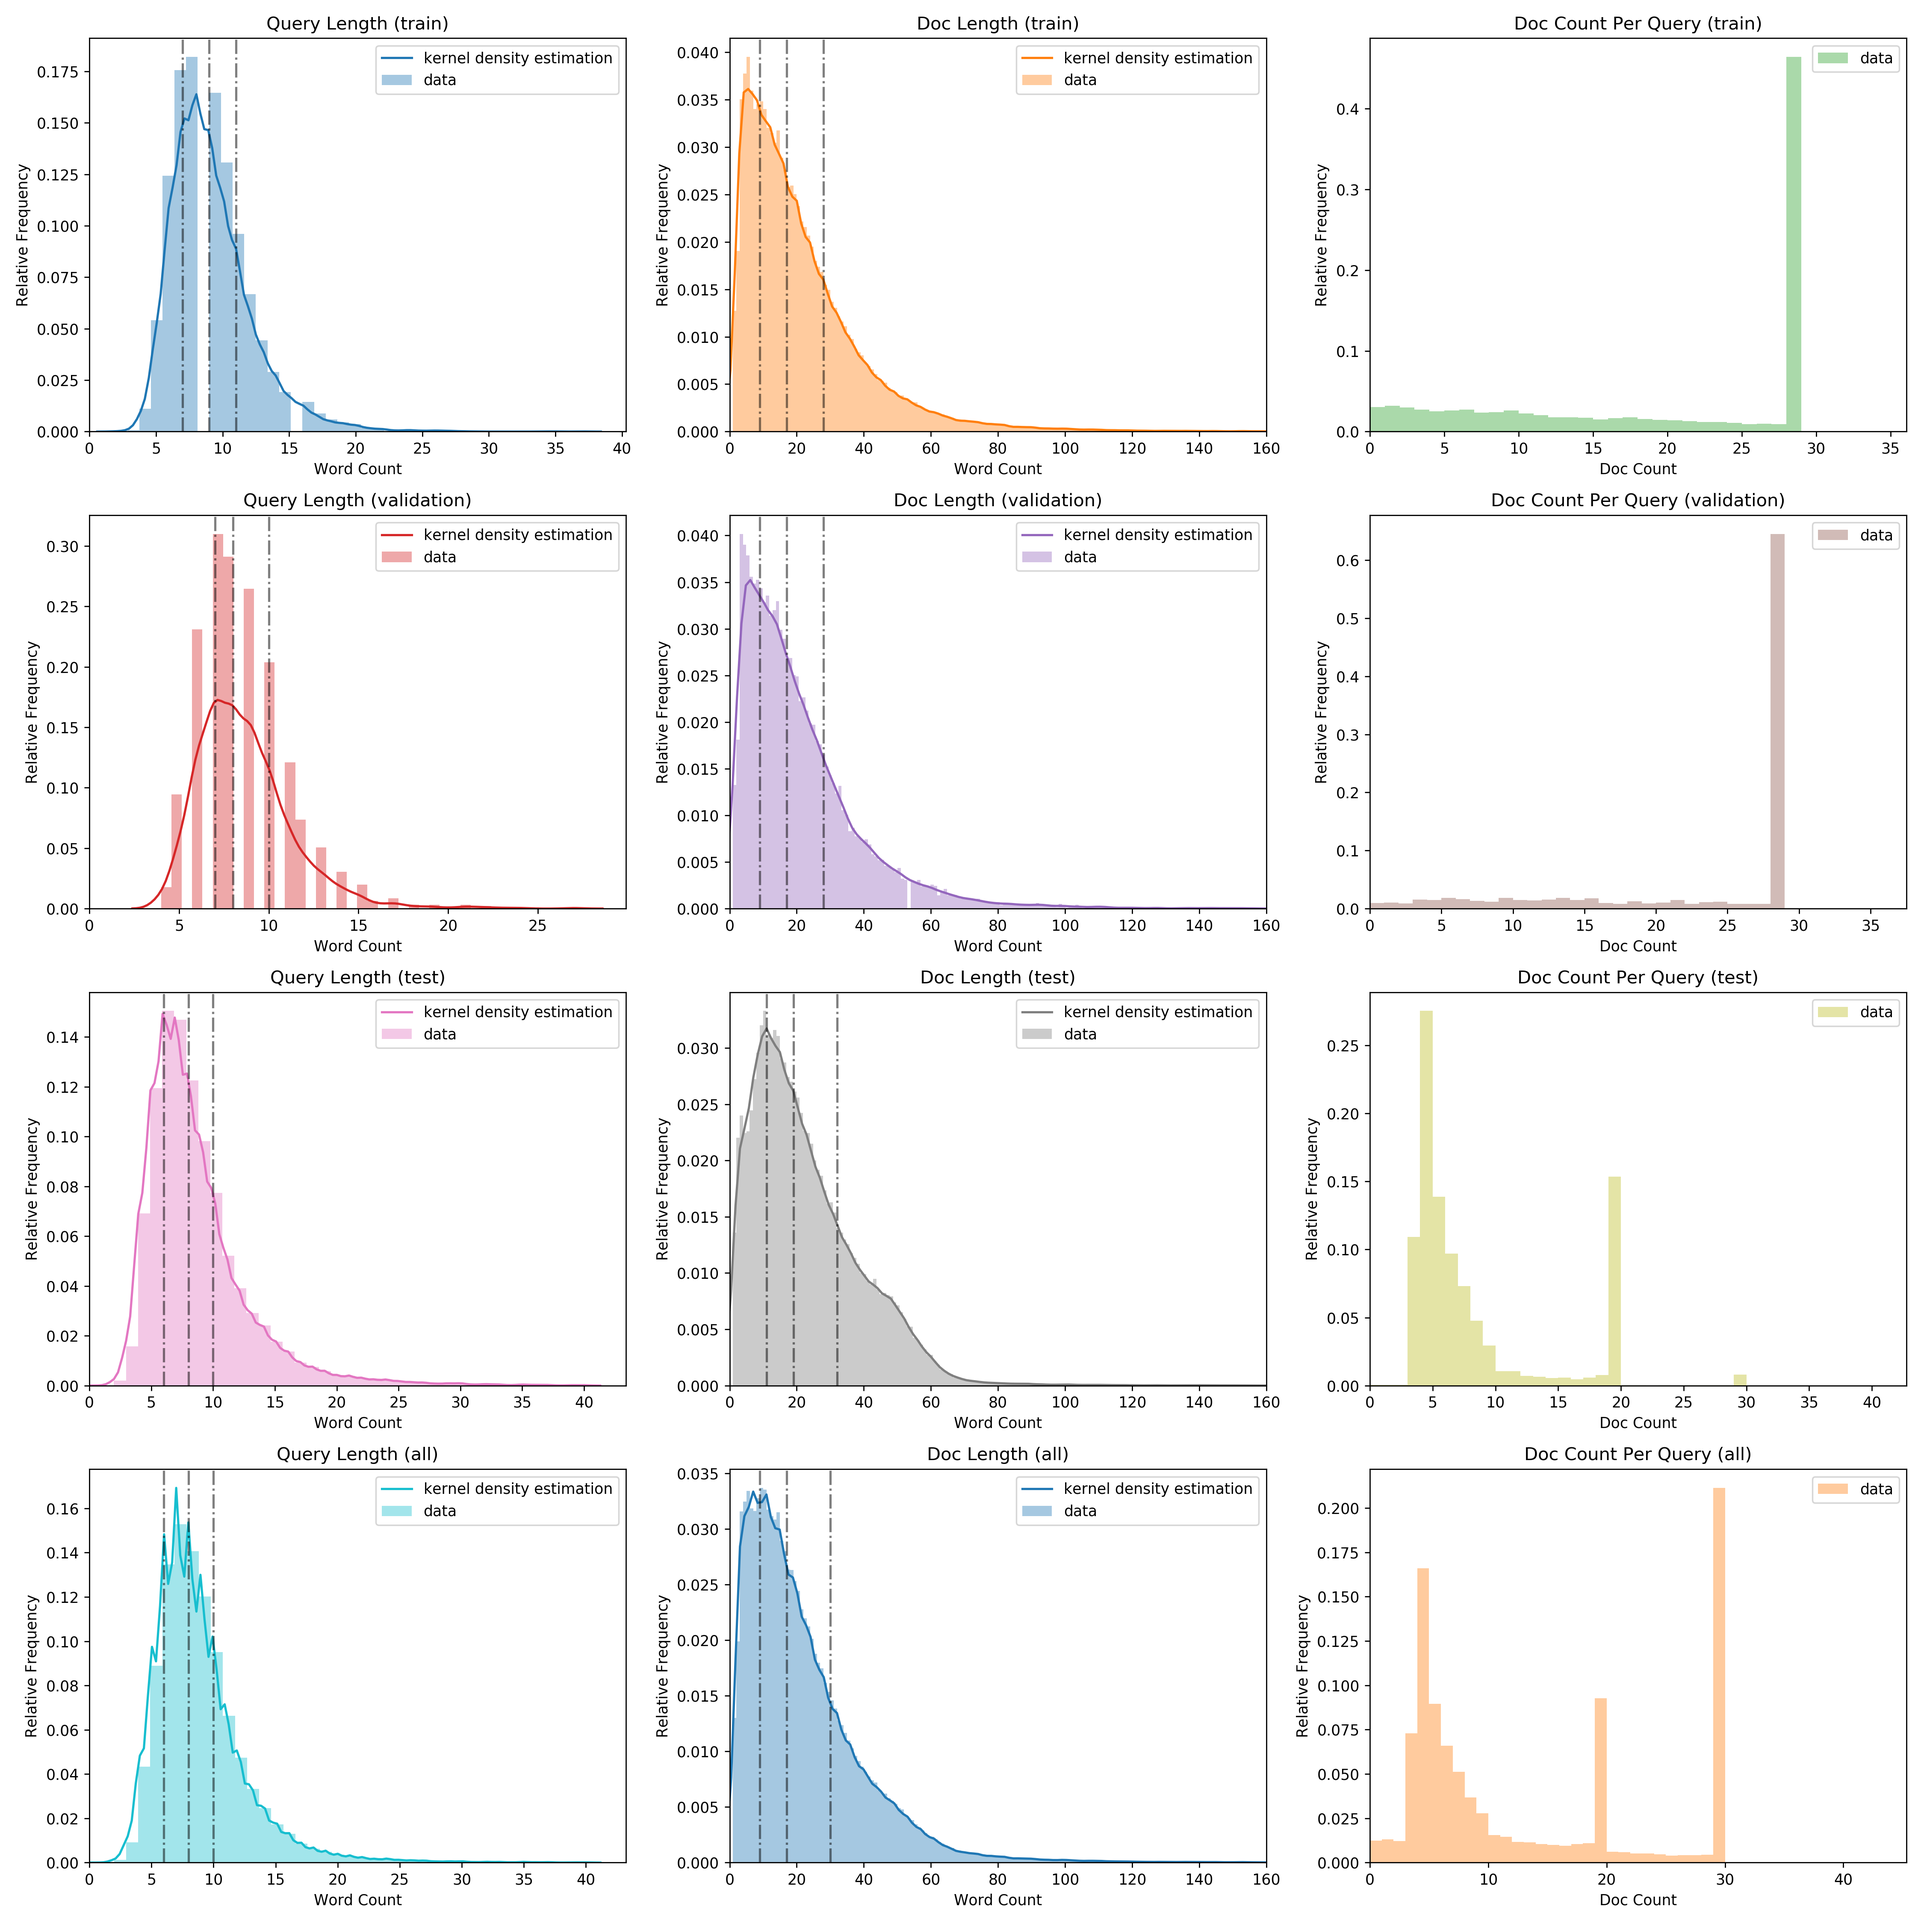
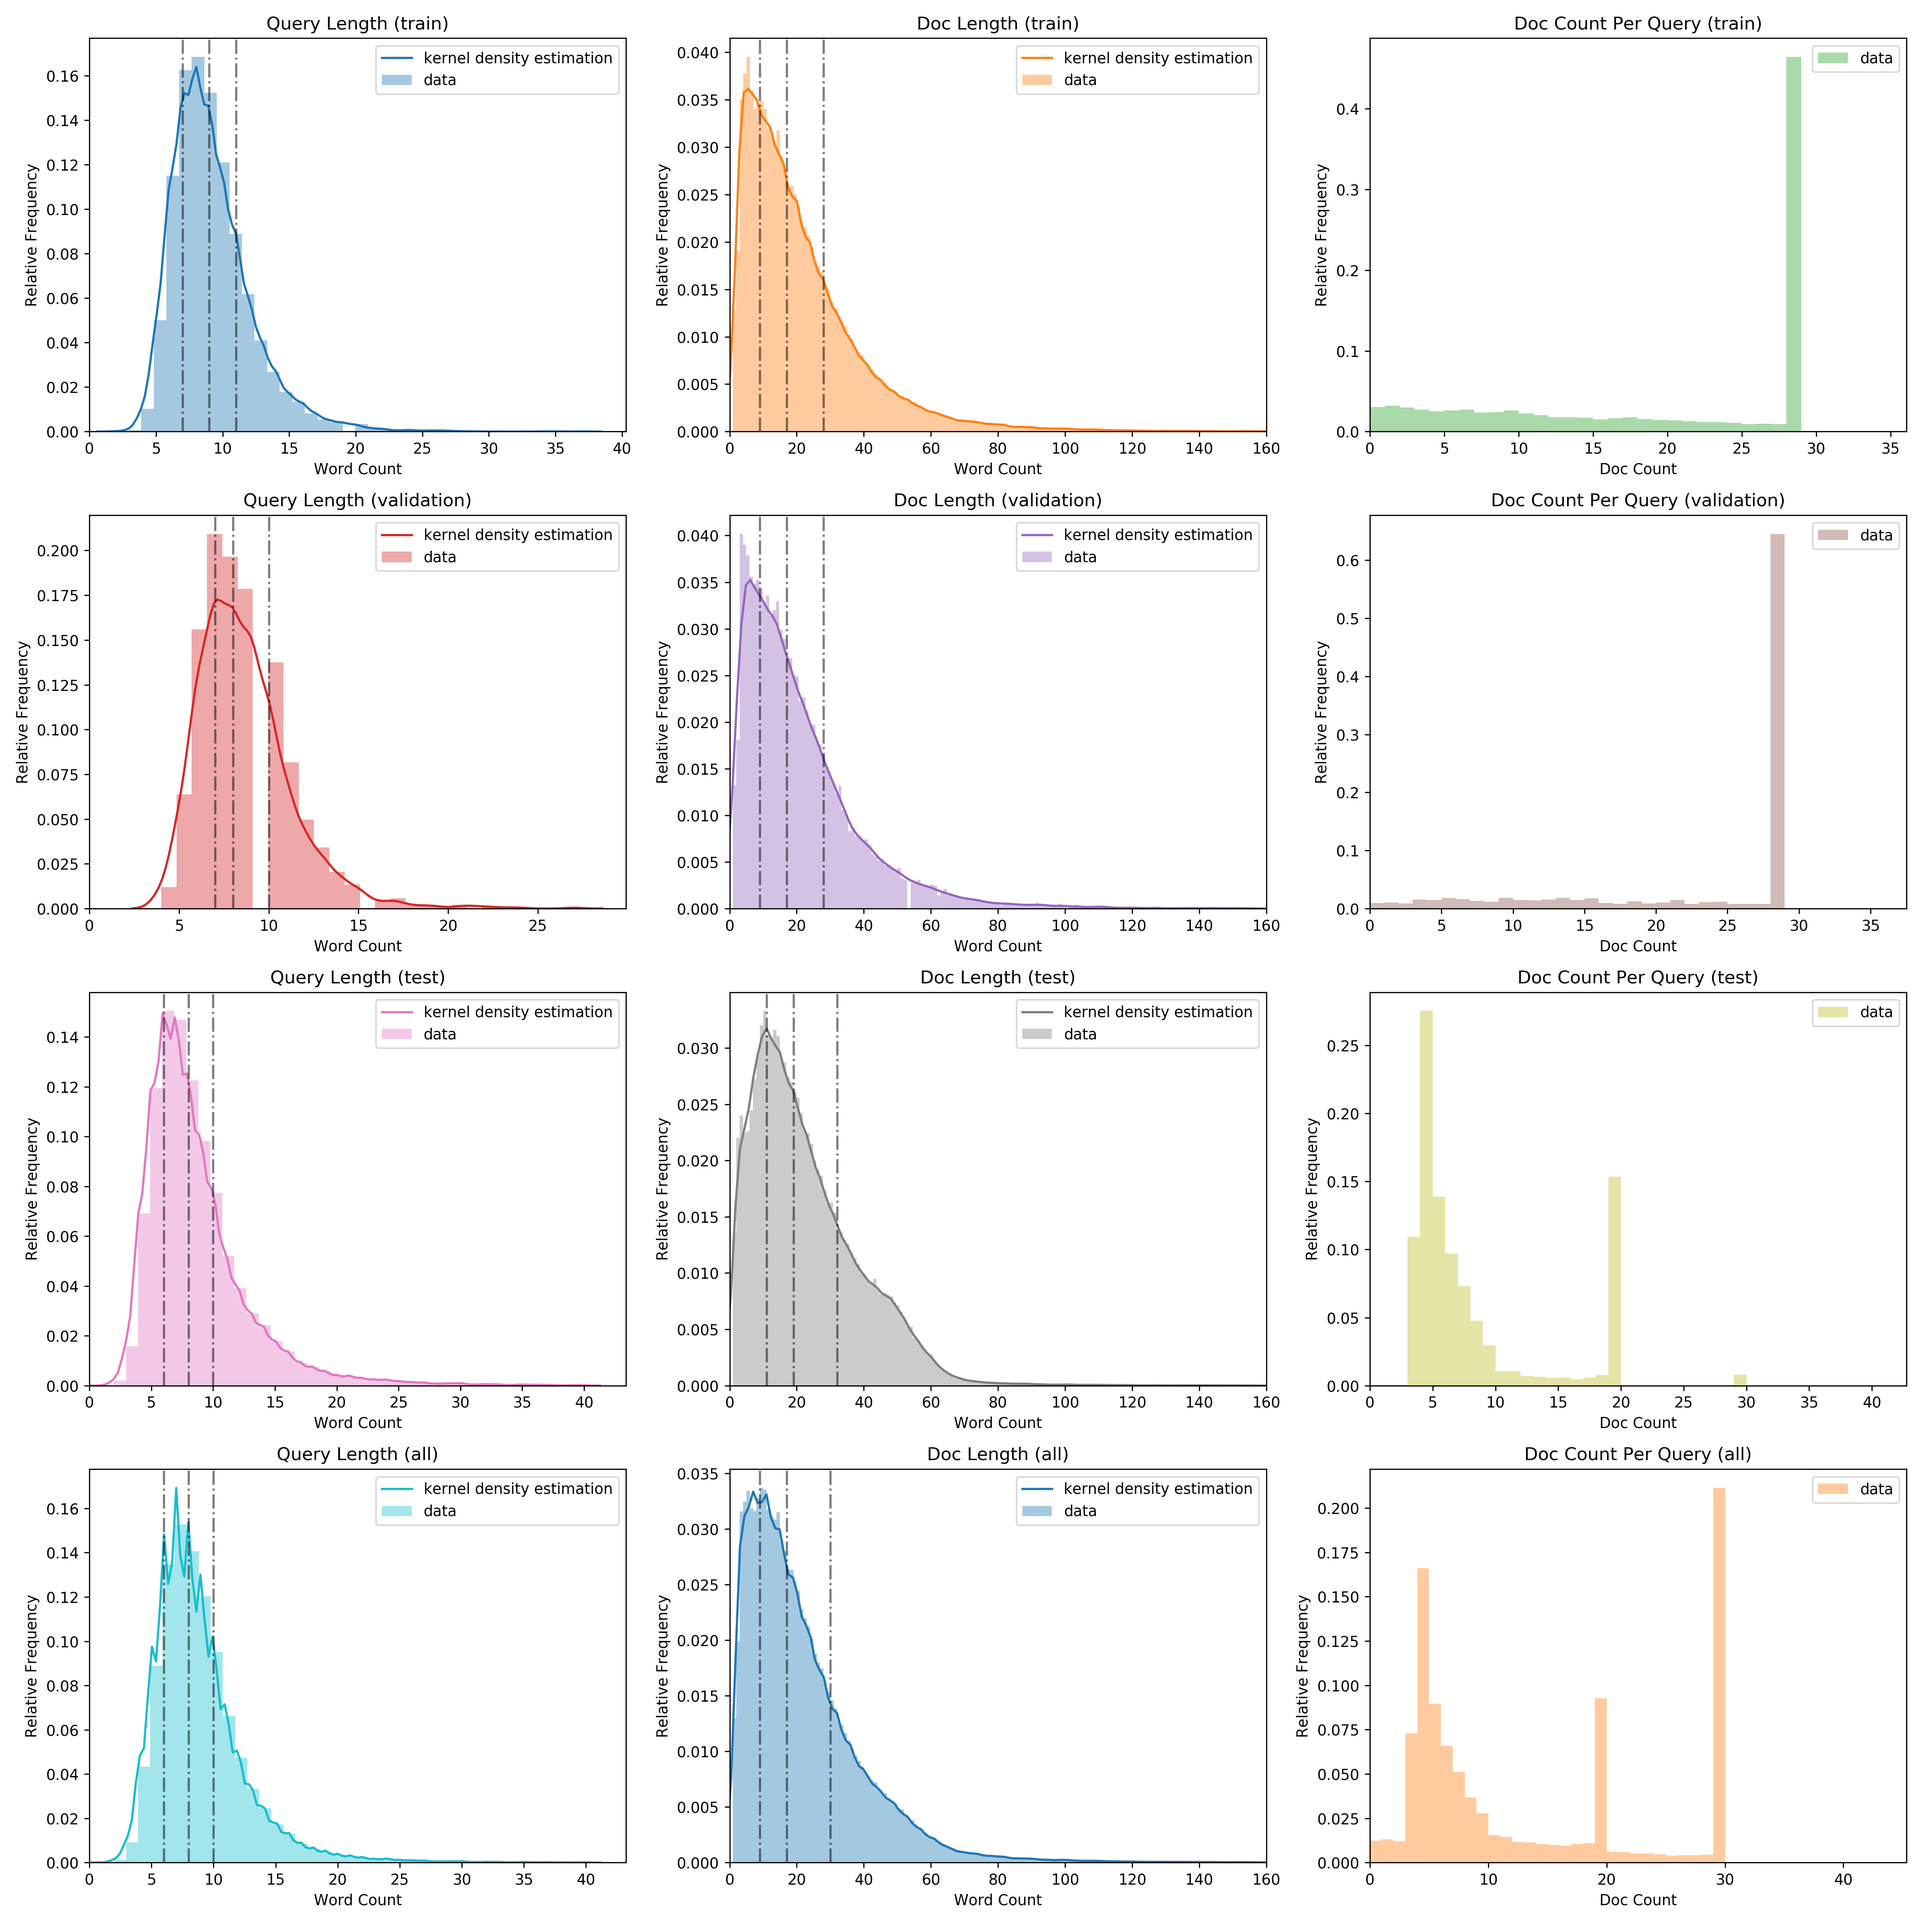
add DataSequence support for test data

diff --git a/dataset.py b/dataset.py
@@ -1,5 +1,5 @@
 import os
-from typing import List, Tuple, Dict, Iterator
+from typing import List, Tuple, Dict, Iterator, Union
 import numpy as np
 import keras
 from jieba import Tokenizer
@@ -88,21 +88,25 @@ def sent2vec(word_list: List[str], max_wc: int) -> np.ndarray:
 
 
 class DataSequence(keras.utils.Sequence):
-    def __init__(self, dataset: str, batch_size: int, data_augmentation: bool = False) -> None:
+    def __init__(self, dataset: str, batch_size: int,
+                 data_augmentation: bool = False, return_target = True) -> None:
         """ Initialize self. """
         super(DataSequence, self).__init__()
         self.dataset: str = dataset
         self.batch_size: int = batch_size
+        self.data_augmentation: bool = data_augmentation
+        self.return_target: bool = return_target
+        
         self.queries: List[List[str]] = []
         self.doc_lists: List[List[List[str]]] = []
         self.label_lists: List[List[int]] = []
         for query, doc_list, label_list in query_doc_label_generator(dataset = dataset):
             split_doc_list: List[List[str]] = list(map(cut_sentence, doc_list))
             
-            if data_augmentation:
+            if self.data_augmentation:
                 n_doc: int = len(label_list)
                 n_pos_doc: int = label_list.count(POSITIVE)
-                n_neg_doc: int = n_doc - n_pos_doc
+                n_neg_doc: int = label_list.count(NEGATIVE)
                 try:
                     factor: int = n_neg_doc // n_pos_doc - 1
                 except ZeroDivisionError:
@@ -117,23 +121,9 @@ class DataSequence(keras.utils.Sequence):
             self.doc_lists.append(split_doc_list)
             self.label_lists.append(label_list)
         
-        n_query: int = len(self.queries)
-        n_doc: int = sum(map(len, self.label_lists))
-        n_pos_doc: int = sum(label_list.count(POSITIVE) for label_list in self.label_lists)
-        n_neg_doc: int = n_doc - n_pos_doc
-        print(f'{{\n'
-              f'    dataset: {dataset},\n'
-              f'    query_num: {n_query},\n'
-              f'    doc_num: {n_doc},\n'
-              f'    positive_doc_num: {n_pos_doc},\n'
-              f'    negative_doc_num: {n_neg_doc},\n'
-              f'    average_doc_count_per_query: {n_doc / n_query:.2f},\n'
-              f'    average_positive_doc_num_per_query: {n_pos_doc / n_query:.2f},\n'
-              f'    average_negative_doc_num_per_query: {n_neg_doc / n_query:.2f},\n'
-              f'    use_data_augmentation: {data_augmentation}\n'
-              f'}}')
+        self.show_dataset_info()
     
-    def __getitem__(self, index: int) -> Tuple[List[np.ndarray], np.ndarray]:
+    def __getitem__(self, index: int) -> Union[Tuple[List[np.ndarray], np.ndarray], List[np.ndarray]]:
         queries: List[List[str]] = self.queries[index * self.batch_size:(index + 1) * self.batch_size]
         doc_lists: List[List[List[str]]] = self.doc_lists[index * self.batch_size:(index + 1) * self.batch_size]
         label_lists: List[List[int]] = self.label_lists[index * self.batch_size:(index + 1) * self.batch_size]
@@ -141,7 +131,6 @@ class DataSequence(keras.utils.Sequence):
         n_sample: int = sum(map(len, label_lists))
         embedded_queries: np.ndarray = np.zeros(shape = (n_sample, MAX_QUERY_WC, VEC_SIZE), dtype = np.float32)
         bin_sum: np.ndarray = np.zeros(shape = (n_sample, MAX_QUERY_WC, BIN_NUM), dtype = np.float32)
-        labels: np.ndarray = np.zeros(shape = (n_sample,), dtype = np.float32)
         
         s: int = 0
         for query, doc_list, label_list in zip(queries, doc_lists, label_lists):
@@ -154,13 +143,33 @@ class DataSequence(keras.utils.Sequence):
                         val: float = qa_matrix[i, j]
                         k: int = int((val + 1) * (BIN_NUM - 1) / 2)
                         bin_sum[s, i, k] += qa_matrix[i, j]
-                labels[s] = label
                 s += 1
         
-        return [embedded_queries, bin_sum], labels
+        if self.return_target:
+            labels: np.ndarray = np.concatenate(label_lists).astype(dtype = np.float32)
+            return [embedded_queries, bin_sum], labels
+        else:
+            return [embedded_queries, bin_sum]
     
     def __len__(self) -> int:
         return int(np.ceil(len(self.label_lists) / float(self.batch_size)))
+    
+    def show_dataset_info(self):
+        n_query: int = len(self.queries)
+        n_doc: int = sum(map(len, self.label_lists))
+        n_pos_doc: int = sum(label_list.count(POSITIVE) for label_list in self.label_lists)
+        n_neg_doc: int = sum(label_list.count(NEGATIVE) for label_list in self.label_lists)
+        print(f'{{\n'
+              f'    dataset: {self.dataset},\n'
+              f'    query_num: {n_query},\n'
+              f'    doc_num: {n_doc},\n'
+              f'    positive_doc_num: {n_pos_doc},\n'
+              f'    negative_doc_num: {n_neg_doc},\n'
+              f'    average_doc_count_per_query: {n_doc / n_query:.2f},\n'
+              f'    average_positive_doc_num_per_query: {n_pos_doc / n_query:.2f},\n'
+              f'    average_negative_doc_num_per_query: {n_neg_doc / n_query:.2f},\n'
+              f'    use_data_augmentation: {self.data_augmentation}\n'
+              f'}}')
 
 
 def draw_data_distribution() -> None:
@@ -207,15 +216,15 @@ def draw_data_distribution() -> None:
     def plot_dist(dataset: str,
                   query_wc: np.ndarray, doc_wc: np.ndarray, doc_cnt: np.ndarray,
                   query_ax: plt.Axes, doc_ax: plt.Axes, doc_cnt_ax: plt.Axes) -> None:
-        sns.distplot(query_wc[query_wc <= MAX_QUERY_WC], bins = MAX_QUERY_WC, color = next(color),
+        sns.distplot(query_wc[query_wc <= MAX_QUERY_WC], bins = min(query_wc.max(), MAX_QUERY_WC),
                      kde = True, kde_kws = {'label': 'kernel density estimation'},
-                     label = 'data', ax = query_ax)
-        sns.distplot(doc_wc[doc_wc <= MAX_DOC_WC], bins = MAX_DOC_WC, color = next(color),
+                     color = next(color), label = 'data', ax = query_ax)
+        sns.distplot(doc_wc[doc_wc <= MAX_DOC_WC], bins = MAX_DOC_WC,
                      kde = True, kde_kws = {'label': 'kernel density estimation'},
-                     label = 'data', ax = doc_ax)
-        sns.distplot(doc_cnt, bins = doc_cnt.max(), color = next(color),
+                     color = next(color), label = 'data', ax = doc_ax)
+        sns.distplot(doc_cnt, bins = doc_cnt.max(),
                      kde = True, kde_kws = {'alpha': 0},
-                     label = 'data', ax = doc_cnt_ax)
+                     color = next(color), label = 'data', ax = doc_cnt_ax)
         for q in (0.25, 0.50, 0.75):
             query_ax.axvline(x = np.quantile(query_wc, q = q),
                              linestyle = '-.', color = 'black', alpha = 0.5)

diff --git a/training.py b/training.py
@@ -33,8 +33,10 @@ class MyModelCheckpoint(keras.callbacks.ModelCheckpoint):
 
 
 def train(epochs: int) -> None:
-    train_data = DataSequence(dataset = 'train', batch_size = BATCH_SIZE, data_augmentation = True)
-    validation_data = DataSequence(dataset = 'validation', batch_size = BATCH_SIZE, data_augmentation = False)
+    train_data = DataSequence(dataset = 'train', batch_size = BATCH_SIZE,
+                              data_augmentation = True, return_target = True)
+    validation_data = DataSequence(dataset = 'validation', batch_size = BATCH_SIZE,
+                                   data_augmentation = False, return_target = True)
     
     tensorBoard = MyTensorBoard(log_dir = LOG_DIR,
                                 histogram_freq = 0,
@@ -52,14 +54,11 @@ def train(epochs: int) -> None:
                                               monitor = 'val_acc',
                                               verbose = 1)
     terminateOnNaN = keras.callbacks.TerminateOnNaN()
-    earlyStopping = keras.callbacks.EarlyStopping(monitor = 'val_loss',
-                                                  patience = 5,
-                                                  verbose = 1)
     
     callbacks: List[keras.callbacks.Callback] = [
         tensorBoard, csvLogger,
         modelCheckpointEpoch, modelCheckpointLatest,
-        terminateOnNaN, earlyStopping
+        terminateOnNaN
     ]
     
     try:

diff --git a/config.py b/config.py
@@ -35,7 +35,7 @@ REGULARIZATION_PARAM: float = 1E-5
 WORKERS: int = cpu_count()
 WORKERS = max(1, int(0.75 * WORKERS))
 
-# label_lists
+# labels
 POSITIVE: int = 1
 NEGATIVE: int = 0
 
